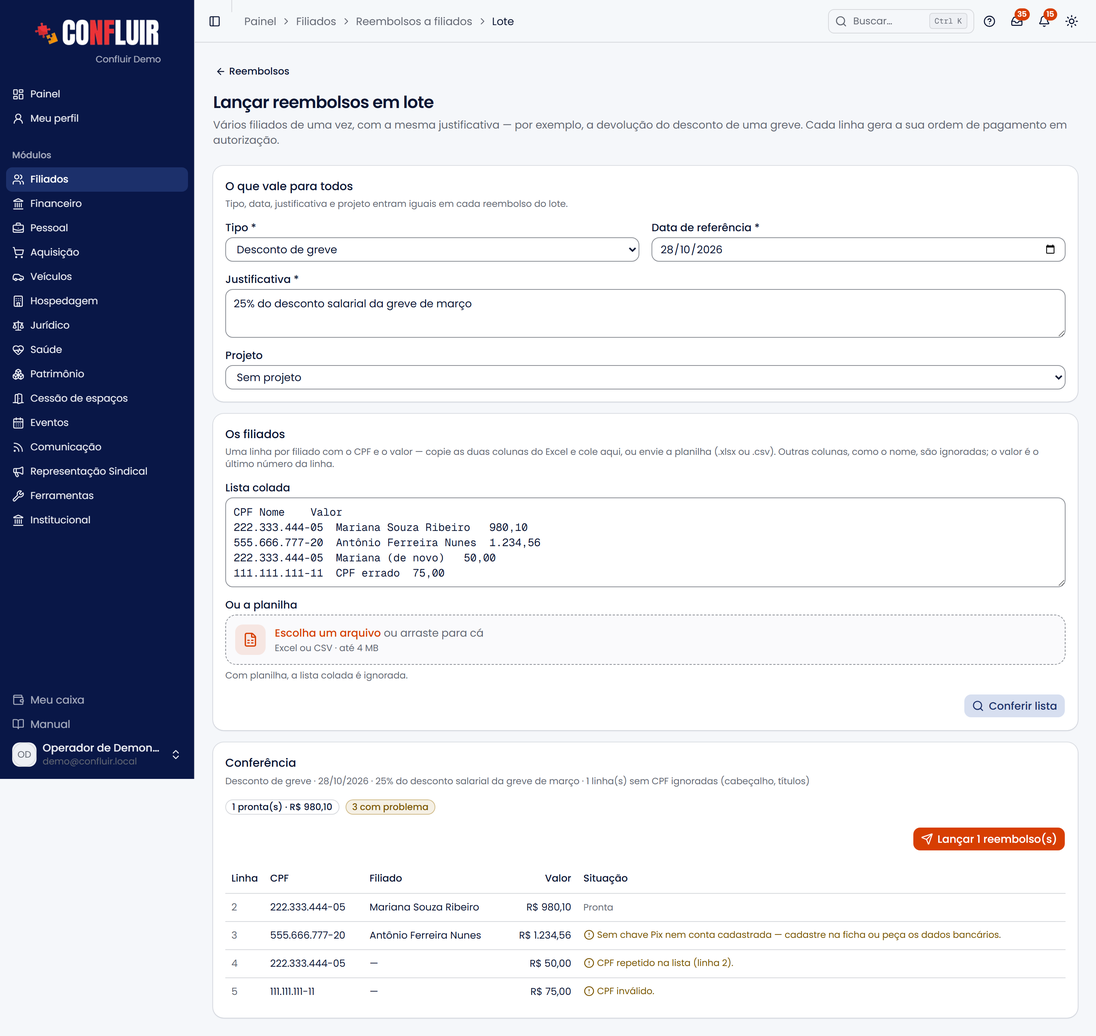
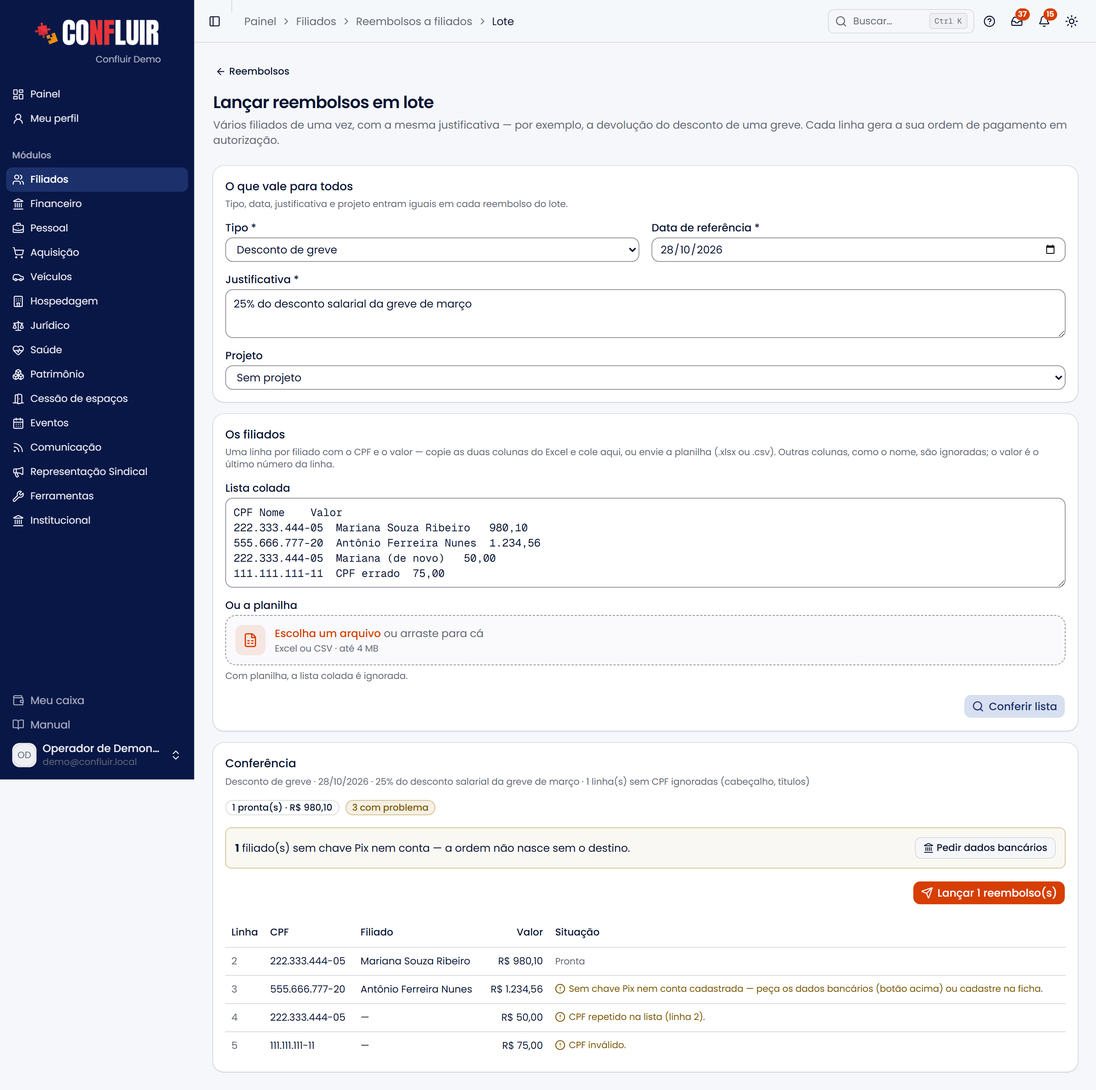
Reembolsos em lote: pedir dados bancários a quem está sem conta
Na conferência do lote, os filiados sem chave Pix nem conta ganham o botão
"Pedir dados bancários" (pedirDadosLoteAction), que reaproveita o pedido por
link da ficha (uso único, 7 dias, conta no CPF do próprio filiado): com
e-mail no cadastro, sai por e-mail; sem e-mail, o link aparece para copiar ou
mandar pelo WhatsApp (celular marcado como WhatsApp). Quem já tem pedido em
aberto não recebe outro, e a linha mostra desde quando o pedido espera.
Pode quem lança reembolso, além de gestão da filiação e pagamentos.
Manual e print do lote atualizados.

diff --git a/src/lib/ajuda/base-conhecimento.ts b/src/lib/ajuda/base-conhecimento.ts
@@ -172,7 +172,7 @@ export const BASE_AJUDA: ArtigoBase[] = [
   {
     "area": "filiados",
     "slug": "reembolsos",
-    "texto": "Reembolso a filiado é o valor que a entidade devolve ao associado — o\ndesconto salarial de uma greve, uma cobrança feita em duplicidade, uma despesa\nem atividade sindical. O valor é informado a cada lançamento, e cada lançamento\ngera a ordem de pagamento no Financeiro.\n\n Reembolsos \n\n O que a tela mostra\n\nFiliados → Reembolsos abre com quanto já foi lançado no mês.\nAbaixo, a lista de lançamentos com filiado, justificativa, tipo, projeto,\nvalor, o código da ordem e a situação — que é a situação da ordem no\nFinanceiro: Em autorização, A pagar, Paga. Dá para filtrar por filiado,\nperíodo, situação e tipo.\n\nCada reembolso tem um tipo: Desconto de greve, Despesa em atividade\nsindical, Cobrança indevida ou Outro. É ele que permite somar \"quanto\ndevolvemos da greve\". Os reembolsos antigos foram classificados pelo texto da\njustificativa; um que tenha caído no tipo errado se corrige abrindo o\nlançamento.\n\n \n\n Lançar um reembolso\n\n \n \nEscolha o filiado: \n Pelo botão Lançar reembolso (busca por nome, CPF ou matrícula) ou,\n mais rápido, pelo botão de mesmo nome no cartão Reembolsos do\n perfil do filiado — aí a pessoa já vem escolhida.\n \n \nTipo, data, justificativa e projeto: \n O tipo diz a natureza do reembolso (desconto de greve, despesa em\n atividade sindical, cobrança indevida ou outro).\n A data de referência situa o reembolso no tempo (o dia do desconto, da\n cobrança ou da atividade). A justificativa diz o motivo (\"25% do desconto\n salarial da greve de março\"). O projeto liga o gasto à campanha ou ao ato,\n para o Financeiro apurar por projeto.\n \n \nInforme o valor: \n O valor a reembolsar naquele caso — não há valor padrão.\n \n \nAnexe o comprovante (opcional): \n Nota fiscal, recibo ou outro comprovante da despesa, em PDF ou imagem (até\n 4 MB). Ele vai como a nota fiscal da ordem de pagamento: o Financeiro o\n vê na ordem e a auditoria o reconhece como anexado.\n \n \nLançar: \n No mesmo ato nascem a ordem de pagamento (tipo Reembolso, Em\n autorização, com o filiado como favorecido, o centro de custo da\n configuração e o comprovante, se anexado) e um apontamento no\n prontuário do filiado.\n \n \n\nPara onde vai o dinheiro. A ordem já sai com o destino do cadastro do\nfiliado (de qualquer cadastro da pessoa com o mesmo CPF): a chave Pix\nquando ele prefere Pix; senão a conta principal (TED); sem conta, a chave\nPix que houver. Sem chave nem conta, a ordem não nasce — cadastre os dados\nbancários na ficha ou peça-os ao filiado pelo link.\n\n \n\nA autorização continua sendo humana: \n O lançamento não paga ninguém. A ordem chega ao Financeiro Em\n autorização e segue pela alçada como qualquer outra. Quem lança\n reembolso não precisa ter alçada.\n \n\n Lançar em lote\n\nPara vários filiados com a mesma justificativa — a devolução do desconto de\numa greve, por exemplo —, use Lançar em lote.\n\n \n \nO que vale para todos: \n Tipo, data de referência, justificativa e projeto entram iguais em cada\n reembolso do lote.\n \n \nA lista: \n Uma linha por filiado com o CPF e o valor: copie as duas colunas do\n Excel e cole, ou envie a planilha (.xlsx ou .csv). Outras colunas (nome,\n matrícula) são ignoradas; o valor é o último número da linha, e o\n cabeçalho é pulado sozinho. Até 1.000 linhas por lote.\n \n \nConferir: \n Nada é gravado ainda. A tabela mostra cada linha com o filiado achado\n pelo CPF ou o problema: CPF inválido ou de ninguém, CPF repetido na\n lista, valor inválido, filiado sem chave Pix nem conta (a ordem não\n nasceria) e reembolso já lançado com a mesma data e o mesmo valor.\n Corrija a lista e confira de novo, ou siga só com as prontas.\n \n \nLançar: \n Confirme o total. Os reembolsos são lançados em partes, com o progresso\n na tela — não feche a página até terminar. Cada linha vira um lançamento\n completo, igual ao individual. Se alguma falhar, o botão passa a lançar\n de novo só as que falharam.\n \n \n\n \n\n Editar e desfazer\n\nClique no lançamento para abrir. Enquanto a ordem não foi paga, tudo se\nedita — e a ordem acompanha (valor e descrição). Com a ordem paga, só\njustificativa e projeto mudam: o dinheiro saiu, valor e data ficam.\n\nO comprovante pode ser anexado ou trocado a qualquer momento, mesmo com a\nordem paga: o botão Comprovante, ao lado da ordem, abre o arquivo atual, e\no campo Trocar o comprovante do formulário substitui a nota fiscal da\nordem. A troca fica na trilha da ordem e a auditoria a reavalia. Salvar sem\nescolher arquivo mantém o comprovante que já estava.\n\nDesfazer apaga o lançamento, o apontamento do prontuário e marca a ordem\ncomo excluída no Financeiro. Ordem paga não se desfaz — um pagamento\nindevido se trata no Financeiro.\n\n Configuração\n\nEm Reembolsos → Configuração a entidade define o centro de custo: a\nordem nasce com ele como centro de custo de despesa.\n\n De onde vieram\n\nOs 1.848 reembolsos do sistema antigo vieram na virada da Filiação\n(setembro de 2026), com justificativa, projeto e a ordem de pagamento\ncorrespondente. Alguns não têm ordem ligada — o registro antigo não a\nguardava — e aparecem com sem ordem na situação.\n\n Erros comuns\n\n- \"Não vejo o botão Lançar reembolso no perfil.\" Exige a permissão\n Reembolsos ou Gestão da filiação.\n- \"A situação não muda para Paga.\" O pagamento é registrado no\n Financeiro, na ordem. Aqui só se lê."
+    "texto": "Reembolso a filiado é o valor que a entidade devolve ao associado — o\ndesconto salarial de uma greve, uma cobrança feita em duplicidade, uma despesa\nem atividade sindical. O valor é informado a cada lançamento, e cada lançamento\ngera a ordem de pagamento no Financeiro.\n\n Reembolsos \n\n O que a tela mostra\n\nFiliados → Reembolsos abre com quanto já foi lançado no mês.\nAbaixo, a lista de lançamentos com filiado, justificativa, tipo, projeto,\nvalor, o código da ordem e a situação — que é a situação da ordem no\nFinanceiro: Em autorização, A pagar, Paga. Dá para filtrar por filiado,\nperíodo, situação e tipo.\n\nCada reembolso tem um tipo: Desconto de greve, Despesa em atividade\nsindical, Cobrança indevida ou Outro. É ele que permite somar \"quanto\ndevolvemos da greve\". Os reembolsos antigos foram classificados pelo texto da\njustificativa; um que tenha caído no tipo errado se corrige abrindo o\nlançamento.\n\n \n\n Lançar um reembolso\n\n \n \nEscolha o filiado: \n Pelo botão Lançar reembolso (busca por nome, CPF ou matrícula) ou,\n mais rápido, pelo botão de mesmo nome no cartão Reembolsos do\n perfil do filiado — aí a pessoa já vem escolhida.\n \n \nTipo, data, justificativa e projeto: \n O tipo diz a natureza do reembolso (desconto de greve, despesa em\n atividade sindical, cobrança indevida ou outro).\n A data de referência situa o reembolso no tempo (o dia do desconto, da\n cobrança ou da atividade). A justificativa diz o motivo (\"25% do desconto\n salarial da greve de março\"). O projeto liga o gasto à campanha ou ao ato,\n para o Financeiro apurar por projeto.\n \n \nInforme o valor: \n O valor a reembolsar naquele caso — não há valor padrão.\n \n \nAnexe o comprovante (opcional): \n Nota fiscal, recibo ou outro comprovante da despesa, em PDF ou imagem (até\n 4 MB). Ele vai como a nota fiscal da ordem de pagamento: o Financeiro o\n vê na ordem e a auditoria o reconhece como anexado.\n \n \nLançar: \n No mesmo ato nascem a ordem de pagamento (tipo Reembolso, Em\n autorização, com o filiado como favorecido, o centro de custo da\n configuração e o comprovante, se anexado) e um apontamento no\n prontuário do filiado.\n \n \n\nPara onde vai o dinheiro. A ordem já sai com o destino do cadastro do\nfiliado (de qualquer cadastro da pessoa com o mesmo CPF): a chave Pix\nquando ele prefere Pix; senão a conta principal (TED); sem conta, a chave\nPix que houver. Sem chave nem conta, a ordem não nasce — cadastre os dados\nbancários na ficha ou peça-os ao filiado pelo link.\n\n \n\nA autorização continua sendo humana: \n O lançamento não paga ninguém. A ordem chega ao Financeiro Em\n autorização e segue pela alçada como qualquer outra. Quem lança\n reembolso não precisa ter alçada.\n \n\n Lançar em lote\n\nPara vários filiados com a mesma justificativa — a devolução do desconto de\numa greve, por exemplo —, use Lançar em lote.\n\n \n \nO que vale para todos: \n Tipo, data de referência, justificativa e projeto entram iguais em cada\n reembolso do lote.\n \n \nA lista: \n Uma linha por filiado com o CPF e o valor: copie as duas colunas do\n Excel e cole, ou envie a planilha (.xlsx ou .csv). Outras colunas (nome,\n matrícula) são ignoradas; o valor é o último número da linha, e o\n cabeçalho é pulado sozinho. Até 1.000 linhas por lote.\n \n \nConferir: \n Nada é gravado ainda. A tabela mostra cada linha com o filiado achado\n pelo CPF ou o problema: CPF inválido ou de ninguém, CPF repetido na\n lista, valor inválido, filiado sem chave Pix nem conta (a ordem não\n nasceria) e reembolso já lançado com a mesma data e o mesmo valor.\n Corrija a lista e confira de novo, ou siga só com as prontas.\n \n \nSem conta? Peça os dados: \n Se houver filiados sem chave Pix nem conta, o botão Pedir dados\n bancários manda a cada um o link de uso único (7 dias) para informar a\n chave ou a conta no próprio CPF: por e-mail, quando o cadastro tem um;\n sem e-mail, o link aparece na tela para copiar ou mandar pelo WhatsApp.\n Quem já tem pedido em aberto não recebe outro, e a linha passa a dizer\n desde quando o pedido espera. Quando responderem, confira a lista de novo\n — eles entram como prontos.\n \n \nLançar: \n Confirme o total. Os reembolsos são lançados em partes, com o progresso\n na tela — não feche a página até terminar. Cada linha vira um lançamento\n completo, igual ao individual. Se alguma falhar, o botão passa a lançar\n de novo só as que falharam.\n \n \n\n \n\n Editar e desfazer\n\nClique no lançamento para abrir. Enquanto a ordem não foi paga, tudo se\nedita — e a ordem acompanha (valor e descrição). Com a ordem paga, só\njustificativa e projeto mudam: o dinheiro saiu, valor e data ficam.\n\nO comprovante pode ser anexado ou trocado a qualquer momento, mesmo com a\nordem paga: o botão Comprovante, ao lado da ordem, abre o arquivo atual, e\no campo Trocar o comprovante do formulário substitui a nota fiscal da\nordem. A troca fica na trilha da ordem e a auditoria a reavalia. Salvar sem\nescolher arquivo mantém o comprovante que já estava.\n\nDesfazer apaga o lançamento, o apontamento do prontuário e marca a ordem\ncomo excluída no Financeiro. Ordem paga não se desfaz — um pagamento\nindevido se trata no Financeiro.\n\n Configuração\n\nEm Reembolsos → Configuração a entidade define o centro de custo: a\nordem nasce com ele como centro de custo de despesa.\n\n De onde vieram\n\nOs 1.848 reembolsos do sistema antigo vieram na virada da Filiação\n(setembro de 2026), com justificativa, projeto e a ordem de pagamento\ncorrespondente. Alguns não têm ordem ligada — o registro antigo não a\nguardava — e aparecem com sem ordem na situação.\n\n Erros comuns\n\n- \"Não vejo o botão Lançar reembolso no perfil.\" Exige a permissão\n Reembolsos ou Gestão da filiação.\n- \"A situação não muda para Paga.\" O pagamento é registrado no\n Financeiro, na ordem. Aqui só se lê."
   },
   {
     "area": "filiados",

diff --git a/src/app/painel/filiados/reembolsos/lote/lote-form.tsx b/src/app/painel/filiados/reembolsos/lote/lote-form.tsx
@@ -2,7 +2,7 @@
 
 import { useActionState, useEffect, useState } from "react"
 import Link from "next/link"
-import { CircleAlert, CircleCheck, Loader2, Search, Send } from "lucide-react"
+import { CircleAlert, CircleCheck, Copy, Landmark, Loader2, MessageCircle, Search, Send } from "lucide-react"
 
 import { Alert, AlertDescription } from "@/components/ui/alert"
 import { Badge } from "@/components/ui/badge"
@@ -19,7 +19,13 @@ import { useEnvioFormulario } from "@/hooks/use-envio-formulario"
 import { formatarData, formatarMoeda } from "@/lib/formato"
 import { rotuloTipoReembolso, TIPOS_REEMBOLSO } from "@/lib/reembolsos-tipos"
 
-import { conferirLoteAction, lancarLoteParteAction, type EstadoLote } from "../actions"
+import {
+  conferirLoteAction,
+  lancarLoteParteAction,
+  pedirDadosLoteAction,
+  type EstadoLote,
+  type ResultadoPedidoLote,
+} from "../actions"
 
 const PARTE = 10
 
@@ -44,6 +50,7 @@ export function LoteForm({ hoje, projetos }: { hoje: string; projetos: { id: str
   const linhas = estado.linhas ?? []
   const prontas = linhas.filter((l) => !l.problema && l.filiadoId && l.valor)
   const comProblema = linhas.filter((l) => l.problema)
+  const semContaSemPedido = linhas.filter((l) => l.semConta && !l.pedidoEm && l.filiadoId)
   const totalProntas = prontas.reduce((t, l) => t + (l.valor ?? 0), 0)
   const lancadas = Object.values(resultados).filter((r) => r.id).length
   const falhas = Object.values(resultados).filter((r) => r.erro).length
@@ -201,6 +208,13 @@ export function LoteForm({ hoje, projetos }: { hoje: string; projetos: { id: str
               {falhas > 0 && <Badge variant="destructive">{falhas} falharam</Badge>}
             </div>
 
+            {semContaSemPedido.length > 0 && (
+              <PedirDadosLote
+                key={semContaSemPedido.map((l) => l.filiadoId).join(",")}
+                filiados={semContaSemPedido.map((l) => ({ id: l.filiadoId as string, nome: l.nome }))}
+              />
+            )}
+
             {(lancando || progresso > 0) && <Progress value={progresso} />}
 
             {terminou ? (
@@ -288,6 +302,111 @@ export function LoteForm({ hoje, projetos }: { hoje: string; projetos: { id: str
             </div>
           </CardContent>
         </Card>
+      )}
+    </div>
+  )
+}
+
+/**
+ * Pede os dados bancários a quem está sem chave Pix nem conta: por e-mail
+ * quando o cadastro tem um; sem e-mail, mostra o link para copiar ou mandar
+ * pelo WhatsApp. Depois que responderem, basta conferir a lista de novo.
+ */
+function PedirDadosLote({ filiados }: { filiados: { id: string; nome: string | null }[] }) {
+  const [enviando, setEnviando] = useState(false)
+  const [resultado, setResultado] = useState<ResultadoPedidoLote[] | null>(null)
+  const [copiado, setCopiado] = useState<string | null>(null)
+
+  async function pedir() {
+    const ok = await confirmar({
+      titulo: `Pedir os dados bancários a ${filiados.length} filiado(s)?`,
+      descricao:
+        "Cada um recebe um link de uso único, válido por 7 dias, para informar a chave Pix ou a conta no próprio CPF. Quem tem e-mail no cadastro recebe por e-mail; para os outros, o link aparece aqui para você mandar pelo WhatsApp.",
+      confirmar: "Pedir",
+    })
+    if (!ok) return
+    setEnviando(true)
+    try {
+      setResultado(await pedirDadosLoteAction(filiados.map((f) => f.id)))
+    } catch {
+      setResultado(filiados.map((f) => ({ filiadoId: f.id, nome: f.nome, situacao: "erro", erro: "Falha de comunicação." })))
+    } finally {
+      setEnviando(false)
+    }
+  }
+
+  async function copiar(link: string) {
+    try {
+      await navigator.clipboard.writeText(link)
+      setCopiado(link)
+    } catch {
+      window.prompt("Copie o link:", link)
+    }
+  }
+
+  if (!resultado) {
+    return (
+      <div className="border-warning/40 bg-warning/5 flex flex-wrap items-center justify-between gap-3 rounded-md border p-3 text-sm">
+        <span>
+          <strong>{filiados.length}</strong> filiado(s) sem chave Pix nem conta — a ordem não nasce sem o destino.
+        </span>
+        <Button type="button" size="sm" variant="outline" onClick={pedir} disabled={enviando}>
+          {enviando ? <Loader2 className="animate-spin" /> : <Landmark />}
+          Pedir dados bancários
+        </Button>
+      </div>
+    )
+  }
+
+  const porEmail = resultado.filter((r) => r.situacao === "email")
+  const jaPedidos = resultado.filter((r) => r.situacao === "ja_pedido")
+  const aMao = resultado.filter((r) => r.situacao === "link")
+  const erros = resultado.filter((r) => r.situacao === "erro")
+  const mensagem = (nome: string | null, link: string) =>
+    `Olá${nome ? `, ${nome.split(" ")[0]}` : ""}. Para receber o seu reembolso, informe a sua chave Pix ou conta bancária neste link (vale por 7 dias): ${link}`
+
+  return (
+    <div className="border-border grid gap-3 rounded-md border p-3 text-sm">
+      <p>
+        Pedidos de dados bancários: <strong>{porEmail.length}</strong> por e-mail
+        {jaPedidos.length > 0 && <>, {jaPedidos.length} já tinham pedido em aberto</>}
+        {aMao.length > 0 && <>, {aMao.length} sem e-mail (mande o link abaixo)</>}
+        {erros.length > 0 && <>, {erros.length} com erro</>}. Quando responderem, confira a lista de novo.
+      </p>
+      {aMao.length > 0 && (
+        <ul className="grid gap-2">
+          {aMao.map((r) => (
+            <li key={r.filiadoId} className="flex flex-wrap items-center gap-2">
+              <span className="min-w-48 font-medium">{r.nome ?? "Filiado"}</span>
+              {r.erro && <span className="text-warning-fg text-xs">{r.erro}</span>}
+              <Button type="button" size="sm" variant="outline" onClick={() => copiar(r.link as string)}>
+                <Copy />
+                {copiado === r.link ? "Copiado" : "Copiar link"}
+              </Button>
+              {r.whatsapp && (
+                <Button asChild size="sm" variant="outline">
+                  <a
+                    href={`https://wa.me/${r.whatsapp}?text=${encodeURIComponent(mensagem(r.nome, r.link as string))}`}
+                    target="_blank"
+                    rel="noreferrer"
+                  >
+                    <MessageCircle />
+                    WhatsApp
+                  </a>
+                </Button>
+              )}
+            </li>
+          ))}
+        </ul>
+      )}
+      {erros.length > 0 && (
+        <ul className="text-destructive grid gap-1 text-xs">
+          {erros.map((r) => (
+            <li key={r.filiadoId}>
+              {r.nome ?? "Filiado"}: {r.erro}
+            </li>
+          ))}
+        </ul>
       )}
     </div>
   )

diff --git a/src/app/painel/filiados/reembolsos/actions.ts b/src/app/painel/filiados/reembolsos/actions.ts
@@ -13,6 +13,9 @@ import {
   salvarConfigReembolso,
   type LinhaLoteConferida,
 } from "@/lib/db/filiacao-reembolsos-edicao"
+import { criarPedido, pedidoPendente } from "@/lib/db/pedidos-dados-bancarios"
+import { createAdminClient } from "@/lib/supabase/admin"
+import { tenantAtual } from "@/lib/tenant"
 import { lerListaLote } from "@/lib/reembolsos-lote"
 import { ehTipoReembolso, type TipoReembolso } from "@/lib/reembolsos-tipos"
 
@@ -222,5 +225,73 @@ export async function lancarLoteParteAction(
   }
   revalidatePath(LISTA)
   revalidatePath("/painel/financeiro/ordens")
+  return saida
+}
+
+export type ResultadoPedidoLote = {
+  filiadoId: string
+  nome: string | null
+  /** e-mail: o pedido saiu por e-mail; link: sem e-mail, o link vai à mão (WhatsApp); ja_pedido: havia um aberto. */
+  situacao: "email" | "link" | "ja_pedido" | "erro"
+  link?: string
+  email?: string
+  /** Celular com WhatsApp do cadastro, só dígitos (com 55), para o link wa.me. */
+  whatsapp?: string
+  erro?: string
+}
+
+/**
+ * "Pedir dados bancários" para os filiados do lote sem chave Pix nem conta:
+ * o mesmo pedido por link da ficha (pedidos-dados-bancarios.ts — uso único, 7
+ * dias, conta no CPF do próprio filiado). Com e-mail no cadastro, já sai por
+ * e-mail; sem e-mail, devolve o link para mandar pelo WhatsApp. Quem já tem
+ * pedido em aberto não recebe outro. Pode quem lança reembolso, além de quem
+ * já podia pedir na ficha (gestão da filiação, pagamentos).
+ */
+export async function pedirDadosLoteAction(filiadoIds: string[]): Promise<ResultadoPedidoLote[]> {
+  const sessao = await requirePermissao("filiacao_reembolsos", ["filiacao_gestao", "financeiro_pagamento"])
+  const ids = [...new Set(filiadoIds.filter((id) => UUID.test(id)))].slice(0, 300)
+  if (ids.length === 0) return []
+  const admin = await createAdminClient()
+  const emp = await tenantAtual()
+  const { data: cadastros } = await admin
+    .from("filiacoes")
+    .select("id, nome_completo, email_pessoal, email_corporativo, telefone_1, telefone_1_whatsapp, telefone_2, telefone_2_whatsapp")
+    .eq("emp_proprietaria_id", emp)
+    .in("id", ids)
+  const porId = new Map(((cadastros ?? []) as Record<string, unknown>[]).map((c) => [String(c.id), c]))
+  const limpo = (v: unknown) => (typeof v === "string" && v.trim() ? v.trim() : null)
+  const emailValido = (v: string | null) => (v && /^[^\s@]+@[^\s@]+\.[^\s@]+$/.test(v) ? v : null)
+
+  const saida: ResultadoPedidoLote[] = []
+  for (const id of ids) {
+    const c = porId.get(id)
+    const nome = limpo(c?.nome_completo)
+    if (!c) {
+      saida.push({ filiadoId: id, nome, situacao: "erro", erro: "Filiado não encontrado." })
+      continue
+    }
+    if (await pedidoPendente({ tipo: "filiado", id })) {
+      saida.push({ filiadoId: id, nome, situacao: "ja_pedido" })
+      continue
+    }
+    const email = emailValido(limpo(c.email_pessoal)) ?? emailValido(limpo(c.email_corporativo))
+    const fone = [
+      c.telefone_1_whatsapp === true ? limpo(c.telefone_1) : null,
+      c.telefone_2_whatsapp === true ? limpo(c.telefone_2) : null,
+    ]
+      .map((t) => (t ?? "").replace(/\D/g, ""))
+      .find((t) => t.length >= 10)
+    const whatsapp = fone ? (fone.startsWith("55") && fone.length >= 12 ? fone : `55${fone}`) : undefined
+    const r = await criarPedido({ tipo: "filiado", id }, email ? "email" : "link", email, sessao.usuario.id)
+    if (!r.link) {
+      saida.push({ filiadoId: id, nome, situacao: "erro", erro: r.erro ?? "Não foi possível criar o pedido." })
+    } else if (email && !r.erro) {
+      saida.push({ filiadoId: id, nome, situacao: "email", email, link: r.link })
+    } else {
+      // Sem e-mail, ou o e-mail não saiu: o link vai à mão.
+      saida.push({ filiadoId: id, nome, situacao: "link", link: r.link, whatsapp, erro: r.erro })
+    }
+  }
   return saida
 }

diff --git a/src/lib/db/filiacao-reembolsos-edicao.ts b/src/lib/db/filiacao-reembolsos-edicao.ts
@@ -480,6 +480,10 @@ export type LinhaLoteConferida = {
   filiadoId: string | null
   nome: string | null
   problema: string | null
+  /** Sem chave Pix nem conta: dá para pedir os dados pelo link. */
+  semConta: boolean
+  /** Pedido de dados bancários em aberto (quando foi criado). */
+  pedidoEm: string | null
 }
 
 const emPartes = <T,>(lista: T[], tamanho = 200): T[][] =>
@@ -546,6 +550,23 @@ export async function conferirLoteReembolsos(linhas: LinhaLote[], data: string):
     }
   }
 
+  // Pedido de dados bancários ainda em aberto, por cadastro de filiado.
+  const pedidoAberto = new Map<string, string>()
+  for (const parte of emPartes(filiacoes.map((f) => f.id))) {
+    const { data: pedidos } = await admin
+      .from("financeiro_pedidos_dados_bancarios")
+      .select("filiado_id, created_at")
+      .in("filiado_id", parte)
+      .is("respondido_em", null)
+      .is("cancelado_em", null)
+      .gt("expira_em", new Date().toISOString())
+    for (const d of (pedidos ?? []) as { filiado_id: string; created_at: string }[]) {
+      if (!pedidoAberto.has(d.filiado_id) || d.created_at > (pedidoAberto.get(d.filiado_id) ?? "")) {
+        pedidoAberto.set(d.filiado_id, d.created_at)
+      }
+    }
+  }
+
   // Já lançado: mesma pessoa, mesma data de referência, mesmo valor.
   const lancados = new Set<string>()
   for (const parte of emPartes(filiacoes.map((f) => f.id))) {
@@ -564,7 +585,15 @@ export async function conferirLoteReembolsos(linhas: LinhaLote[], data: string):
   const vistos = new Map<string, number>()
   return linhas.map((l) => {
     const cpf = cpfConfiavel(l.cpf)
-    const base = { linha: l.linha, cpf: cpf ? formatarCpf(cpf) : l.cpf, valor: l.valor, filiadoId: null, nome: null }
+    const base = {
+      linha: l.linha,
+      cpf: cpf ? formatarCpf(cpf) : l.cpf,
+      valor: l.valor,
+      filiadoId: null,
+      nome: null,
+      semConta: false,
+      pedidoEm: null,
+    }
     if (l.valor == null || !(l.valor > 0)) return { ...base, problema: "Valor inválido." }
     if (!cpf) return { ...base, problema: "CPF inválido." }
     const anterior = vistos.get(cpf)
@@ -575,7 +604,15 @@ export async function conferirLoteReembolsos(linhas: LinhaLote[], data: string):
     if (!filiado) return { ...base, problema: "Nenhum filiado com este CPF." }
     const achado = { ...base, filiadoId: filiado.id, nome: texto(filiado.nome_completo) }
     if (!comDestino.has(cpf)) {
-      return { ...achado, problema: "Sem chave Pix nem conta cadastrada — cadastre na ficha ou peça os dados bancários." }
+      const pedido = pedidoAberto.get(filiado.id)
+      return {
+        ...achado,
+        semConta: true,
+        pedidoEm: pedido ?? null,
+        problema: pedido
+          ? `Sem chave Pix nem conta — dados bancários pedidos em ${new Date(pedido).toLocaleDateString("pt-BR", { timeZone: "America/Sao_Paulo" })}, aguardando resposta.`
+          : "Sem chave Pix nem conta cadastrada — peça os dados bancários (botão acima) ou cadastre na ficha.",
+      }
     }
     if (lancados.has(`${cpf}|${l.valor.toFixed(2)}`)) {
       return { ...achado, problema: "Já lançado com esta data e este valor." }
